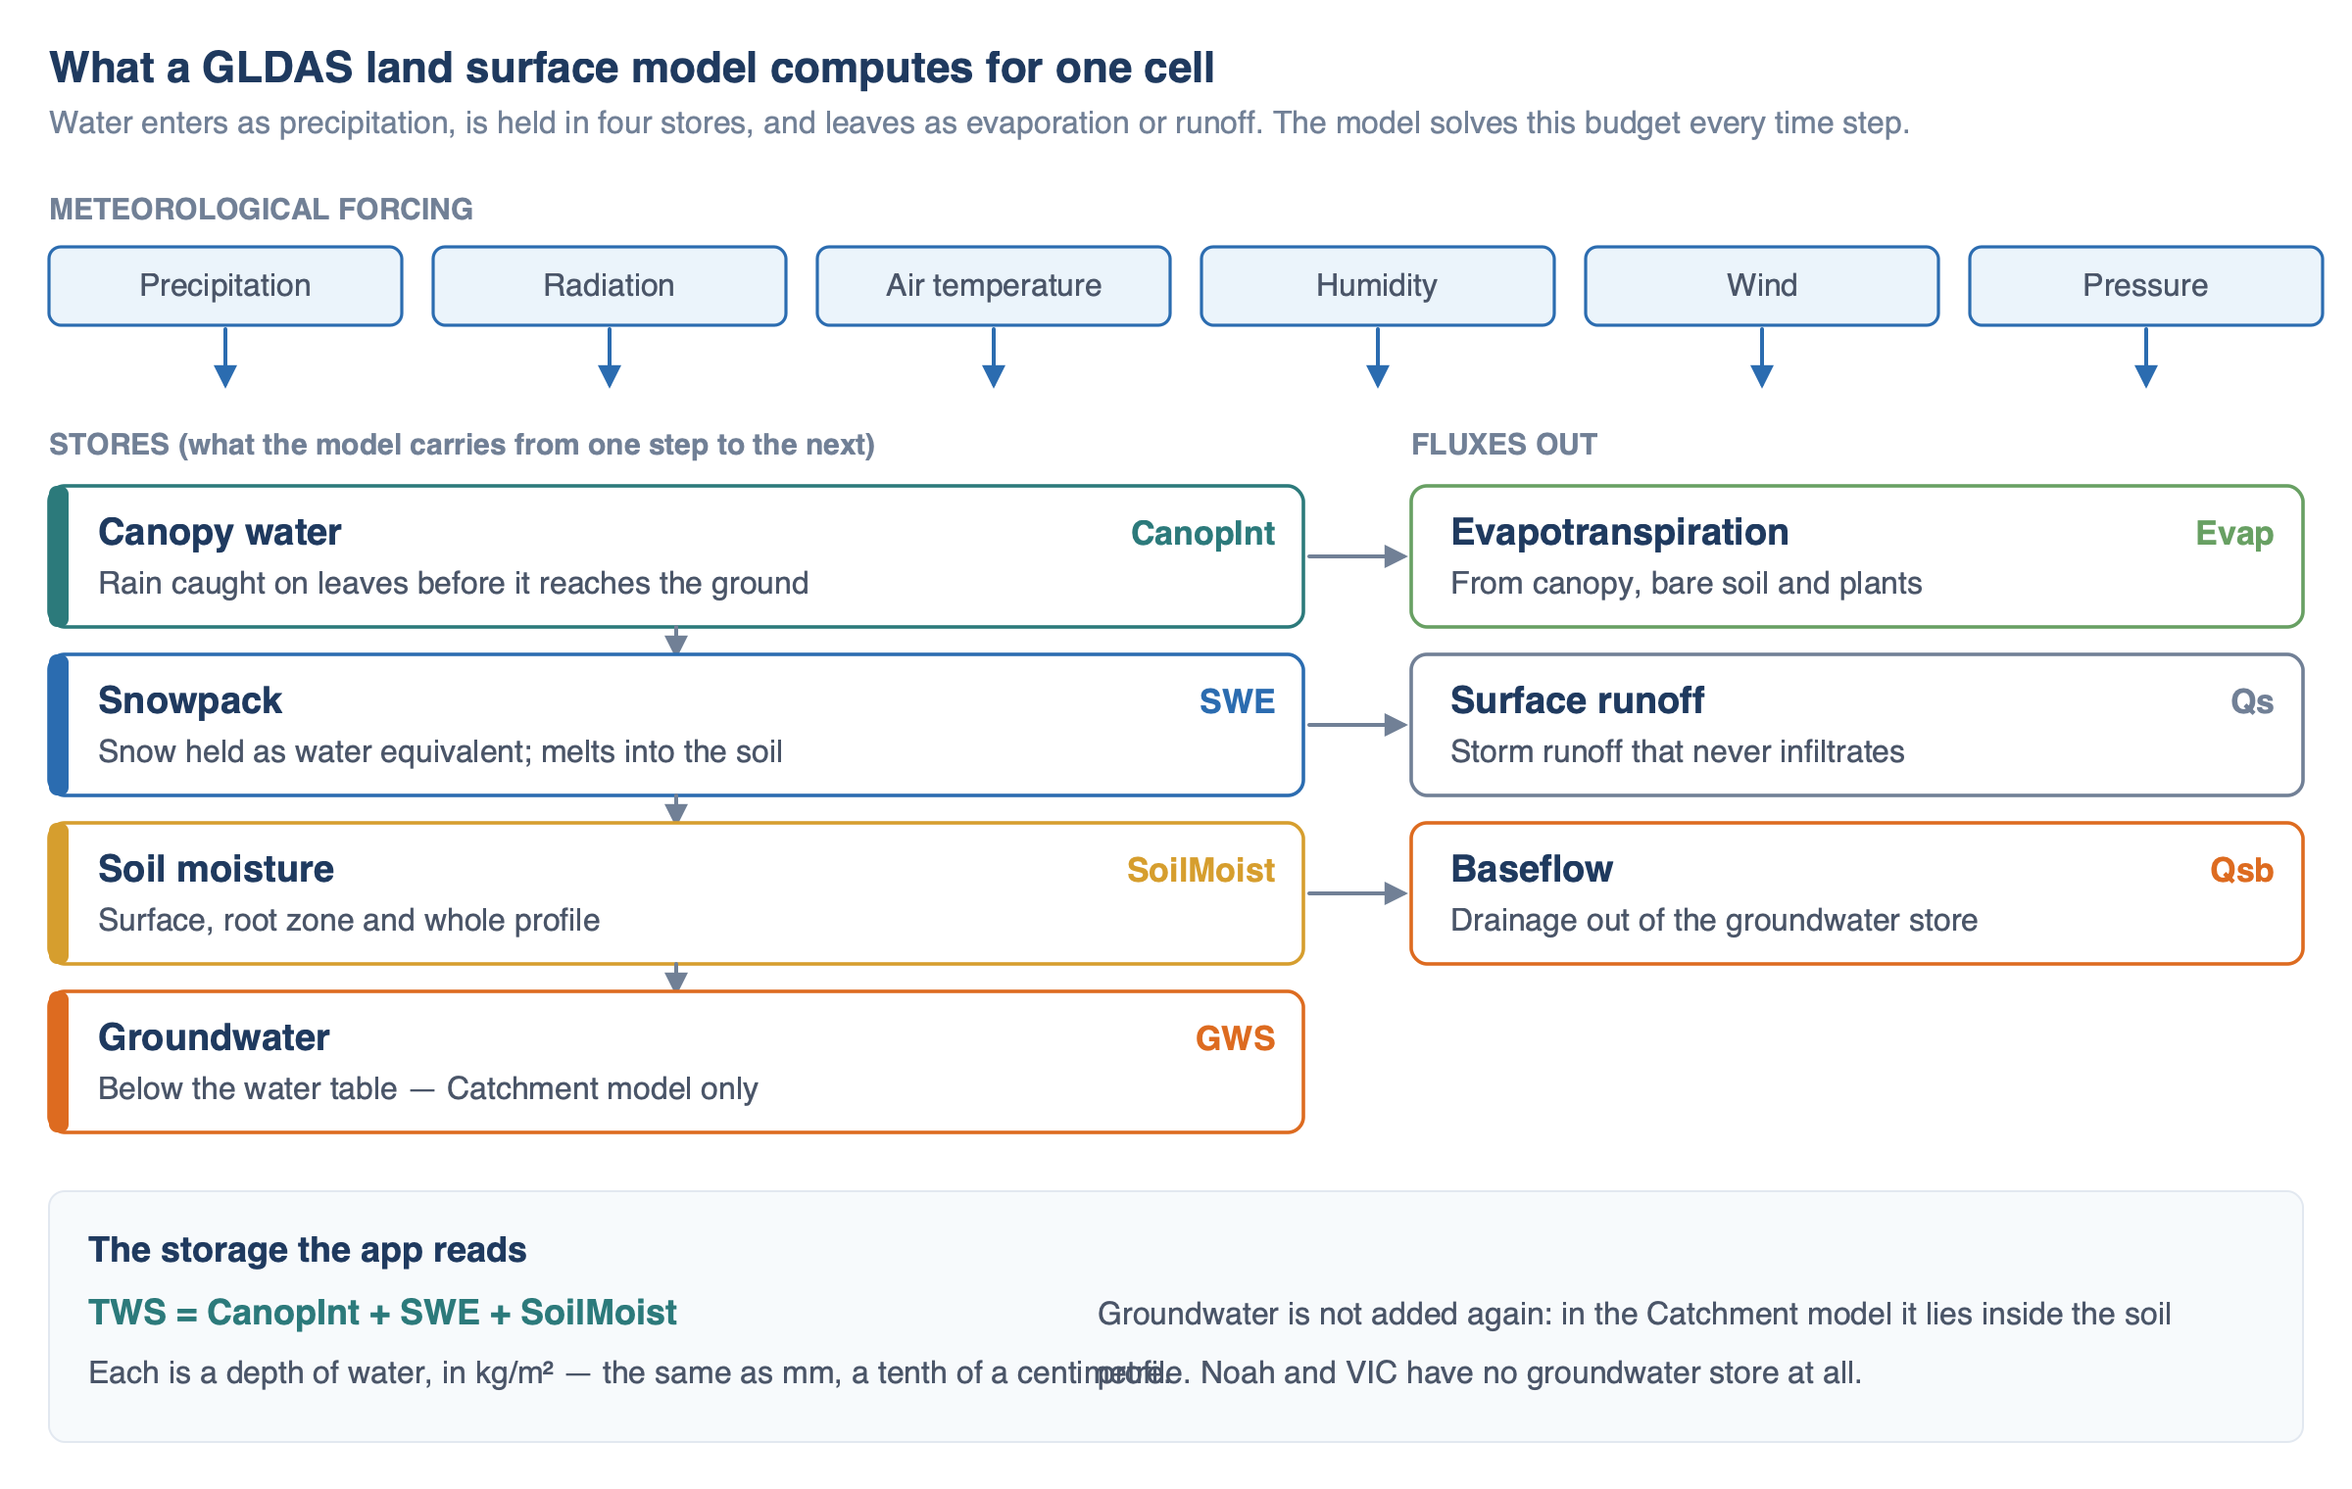
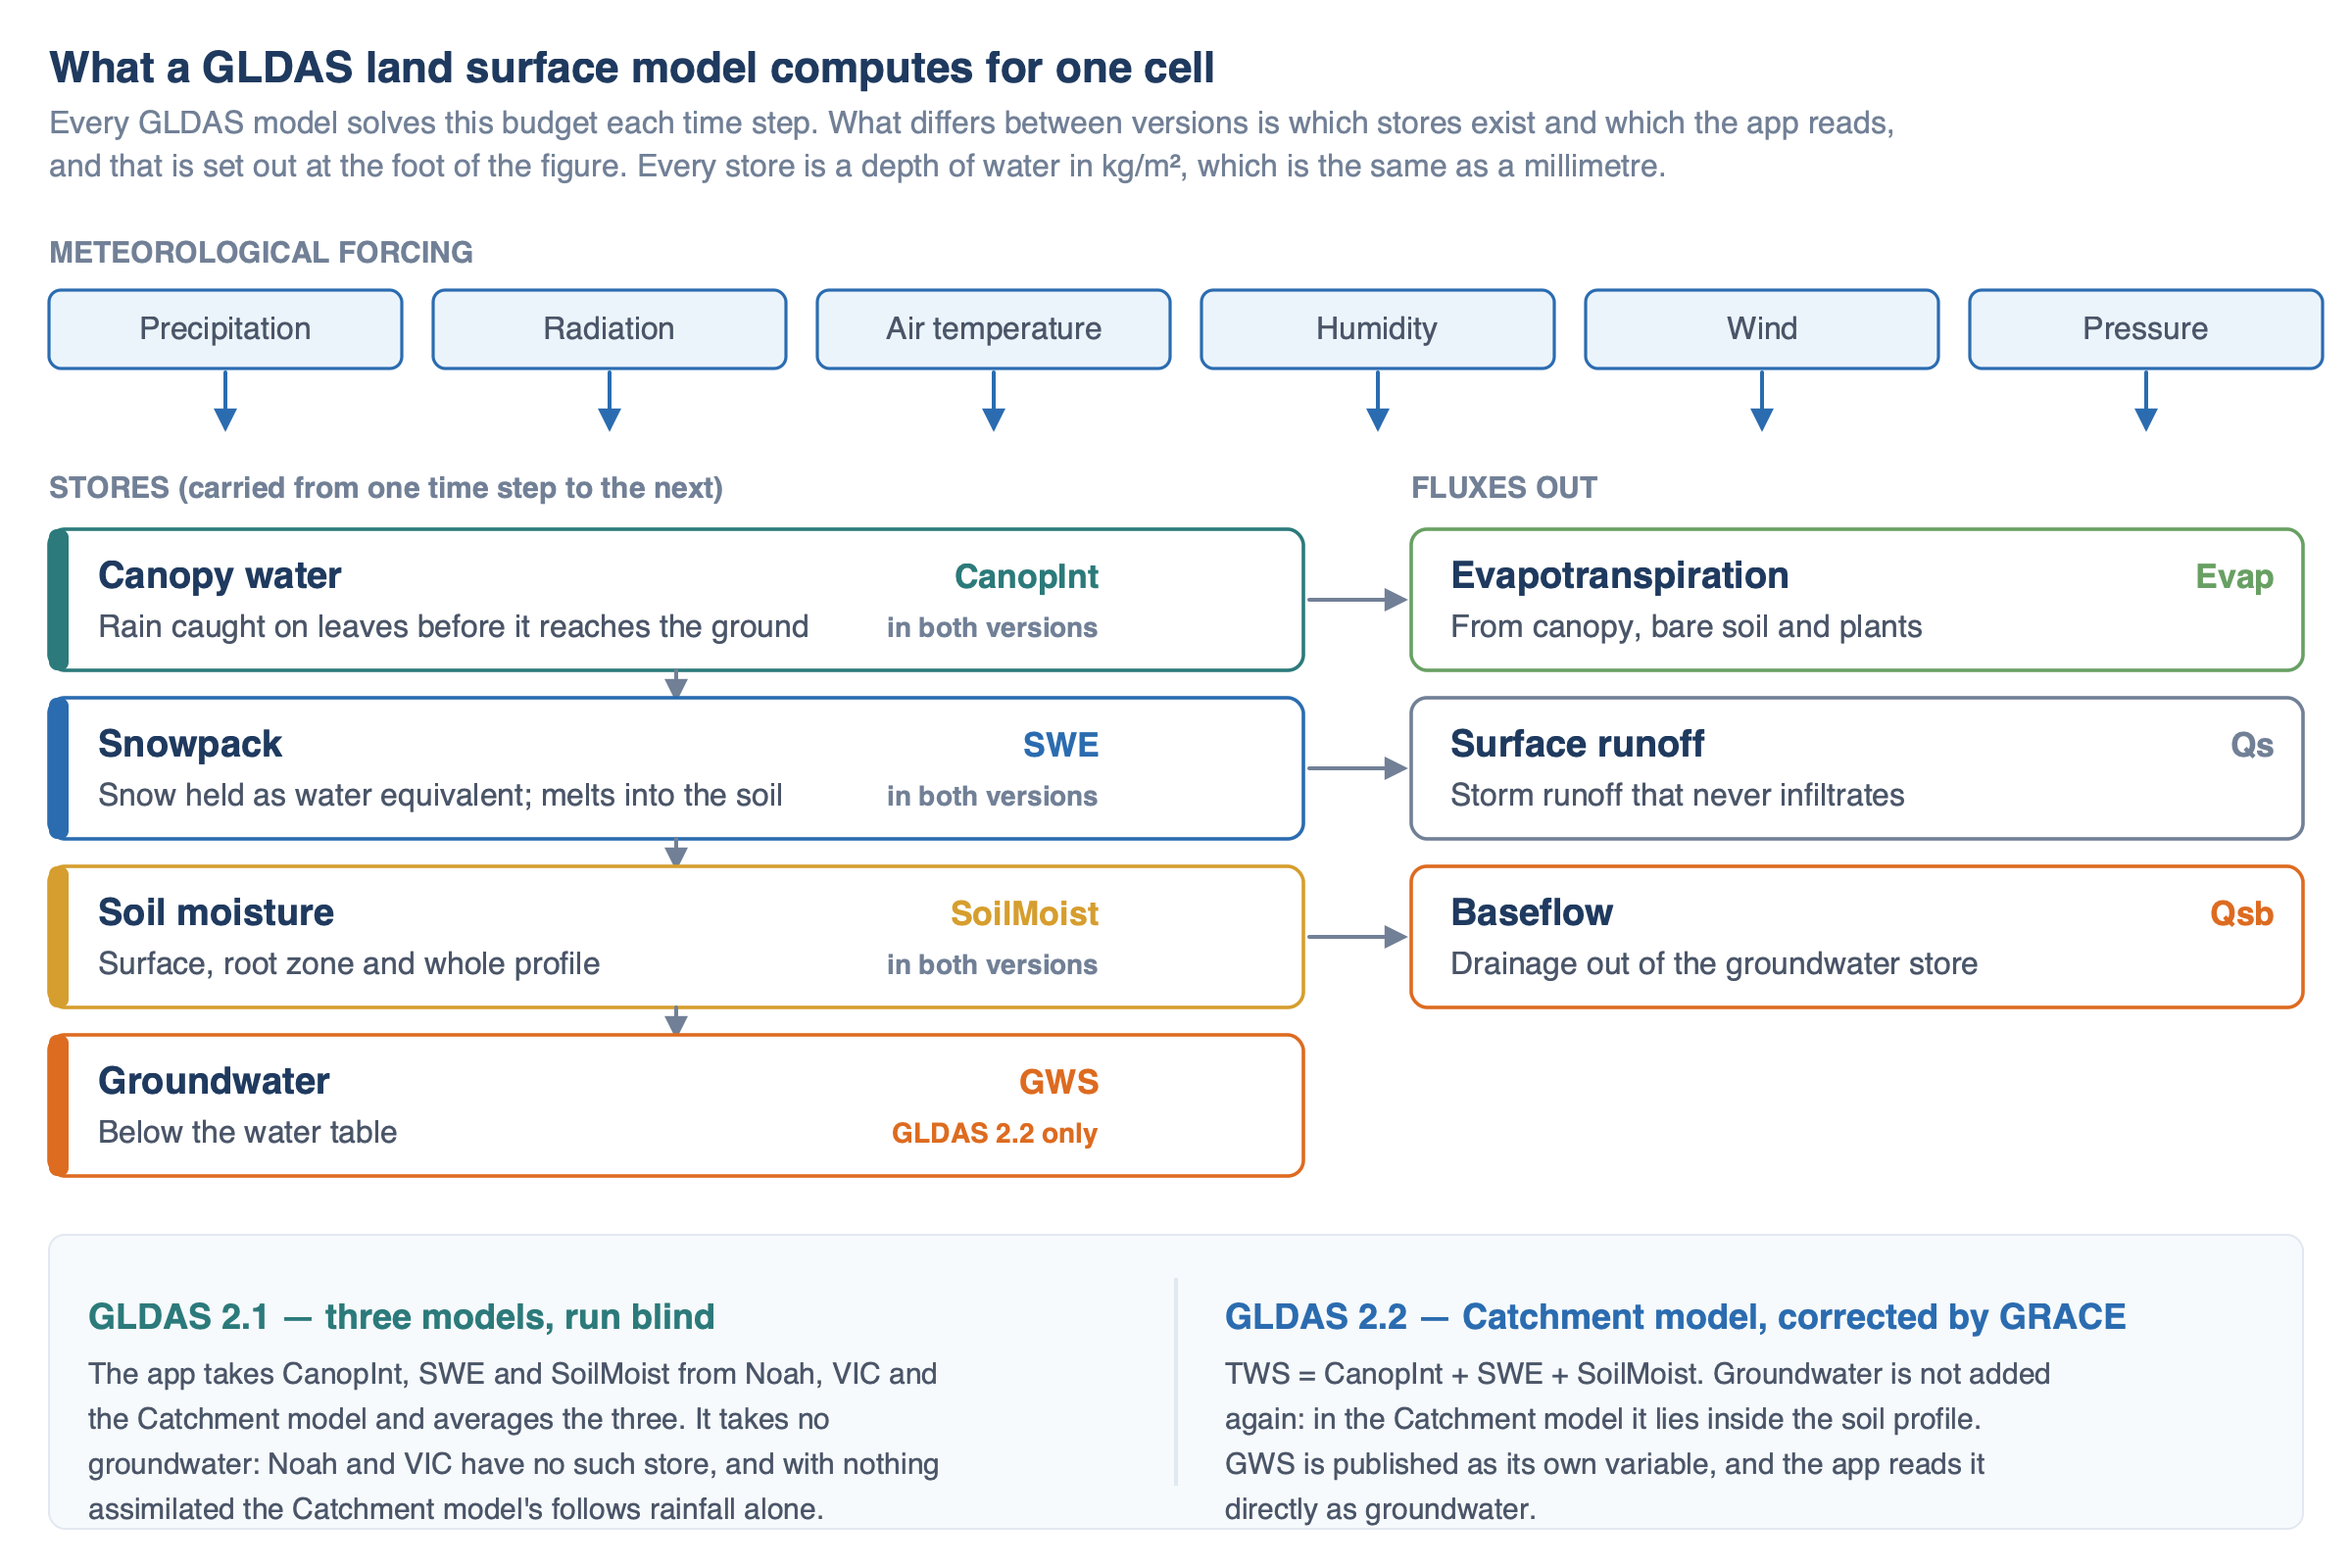
Redraw the water cycle figure so the version split is readable
Its footer overlapped itself at the panel's midpoint, and the figure
gave no way to tell which parts belong to GLDAS 2.1 and which to 2.2 —
the groundwater row said "Catchment model only", which is true but does
not answer the question a reader is actually asking.

Each store now carries a tag saying whether both versions have it, and
the footer is two labelled columns with a rule between them: what the
app takes from the 2.1 ensemble on the left, how 2.2 closes its budget
and publishes groundwater on the right.

Claude-Session: https://claude.ai/code/session_01Wxw5z6EJHSrer8Y72dcUYt

Changed region(s): [[0.0, 0.0309, 1.0, 0.773], [0.0312, 0.8349, 0.9375, 0.9895], [0.5625, 0.5875, 0.5938, 0.6184]]

diff --git a/tools/make_gldas_figures.py b/tools/make_gldas_figures.py
@@ -77,57 +77,73 @@ def svg(name, title, width, height, body):
 
 # ---------------------------------------------------------------- water cycle
 def water_cycle():
-    W, H = 1200, 760
+    W, H = 1200, 800
     b = [text(25, 42, "What a GLDAS land surface model computes for one cell", 22, "bold", "start", NAVY),
-         text(25, 68, "Water enters as precipitation, is held in four stores, and leaves as evaporation or runoff. "
-                      "The model solves this budget every time step.", 16, "normal", "start", GRAY)]
+         text(25, 68, "Every GLDAS model solves this budget each time step. What differs between versions is which stores "
+                      "exist and which the app reads,", 16, "normal", "start", GRAY),
+         text(25, 90, "and that is set out at the foot of the figure. Every store is a depth of water in kg/m², "
+                      "which is the same as a millimetre.", 16, "normal", "start", GRAY)]
 
     # Forcing across the top.
-    b.append(text(25, 112, "METEOROLOGICAL FORCING", 15, "bold", "start", GRAY))
+    b.append(text(25, 134, "METEOROLOGICAL FORCING", 15, "bold", "start", GRAY))
     forcing = ["Precipitation", "Radiation", "Air temperature", "Humidity", "Wind", "Pressure"]
     for i, f in enumerate(forcing):
-        b.append(chip(25 + i * 196, 126, 180, 40, f, BLUE, "#ebf4fb"))
+        b.append(chip(25 + i * 196, 148, 180, 40, f, BLUE, "#ebf4fb"))
     for i in range(6):
-        b.append(arrow(115 + i * 196, 168, 115 + i * 196, 196, "blue", BLUE, 2.0))
+        b.append(arrow(115 + i * 196, 190, 115 + i * 196, 218, "blue", BLUE, 2.0))
 
     # The column of stores.
-    b.append(text(25, 232, "STORES  (what the model carries from one step to the next)", 15, "bold", "start", GRAY))
+    b.append(text(25, 254, "STORES  (carried from one time step to the next)", 15, "bold", "start", GRAY))
     stores = [
-        (TEAL,  "Canopy water", "CanopInt", "Rain caught on leaves before it reaches the ground"),
-        (BLUE,  "Snowpack", "SWE", "Snow held as water equivalent; melts into the soil"),
-        (GOLD,  "Soil moisture", "SoilMoist", "Surface, root zone and whole profile"),
-        (ORANGE, "Groundwater", "GWS", "Below the water table — Catchment model only"),
+        (TEAL,  "Canopy water", "CanopInt", "Rain caught on leaves before it reaches the ground", "both"),
+        (BLUE,  "Snowpack", "SWE", "Snow held as water equivalent; melts into the soil", "both"),
+        (GOLD,  "Soil moisture", "SoilMoist", "Surface, root zone and whole profile", "both"),
+        (ORANGE, "Groundwater", "GWS", "Below the water table", "2.2 only"),
     ]
-    for i, (c, label, var, note) in enumerate(stores):
-        y = 248 + i * 86
+    for i, (c, label, var, note, which) in enumerate(stores):
+        y = 270 + i * 86
         b.append(f'<rect x="25" y="{y}" width="640" height="72" rx="8" fill="white" stroke="{c}" stroke-width="1.8"/>')
         b.append(f'<rect x="25" y="{y}" width="10" height="72" rx="4" fill="{c}"/>')
         b.append(text(50, y + 30, label, 19, "bold", "start", NAVY))
         b.append(text(50, y + 55, note, 16, "normal", "start", DARK))
-        b.append(text(650, y + 30, var, 17, "bold", "end", c))
+        b.append(text(560, y + 30, var, 17, "bold", "end", c))
+        tag = "in both versions" if which == "both" else "GLDAS 2.2 only"
+        tagc = GRAY if which == "both" else ORANGE
+        b.append(text(560, y + 55, tag, 14, "bold", "end", tagc))
         if i < 3:
             b.append(arrow(345, y + 72, 345, y + 86, "gray", GRAY, 2.0))
 
     # Fluxes out, to the right.
-    b.append(text(720, 232, "FLUXES OUT", 15, "bold", "start", GRAY))
+    b.append(text(720, 254, "FLUXES OUT", 15, "bold", "start", GRAY))
     fluxes = [(GREEN, "Evapotranspiration", "Evap", "From canopy, bare soil and plants"),
               (GRAY, "Surface runoff", "Qs", "Storm runoff that never infiltrates"),
               (ORANGE, "Baseflow", "Qsb", "Drainage out of the groundwater store")]
     for i, (c, label, var, note) in enumerate(fluxes):
-        y = 248 + i * 86
+        y = 270 + i * 86
         b.append(f'<rect x="720" y="{y}" width="455" height="72" rx="8" fill="white" stroke="{c}" stroke-width="1.8"/>')
         b.append(text(740, y + 30, label, 19, "bold", "start", NAVY))
         b.append(text(740, y + 55, note, 16, "normal", "start", DARK))
         b.append(text(1160, y + 30, var, 17, "bold", "end", c))
         b.append(arrow(668, y + 36, 716, y + 36, "gray", GRAY, 2.0))
 
-    # The budget, and what the app takes from it.
-    b.append(panel(25, 608, 1150, 128))
-    b.append(text(45, 644, "The storage the app reads", 18, "bold", "start", NAVY))
-    b.append(text(45, 676, "TWS  =  CanopInt + SWE + SoilMoist", 18, "bold", "start", TEAL))
-    b.append(text(45, 706, "Each is a depth of water, in kg/m² — the same as mm, a tenth of a centimetre.", 16))
-    b.append(text(560, 676, "Groundwater is not added again: in the Catchment model it lies inside the soil", 16))
-    b.append(text(560, 706, "profile. Noah and VIC have no groundwater store at all.", 16))
+    # What each version gives the app. Two columns, with a rule between them so
+    # a line from one cannot be read as part of the other.
+    b.append(panel(25, 630, 1150, 150))
+    b.append(f'<line x1="600" y1="652" x2="600" y2="758" stroke="{LIGHT}" stroke-width="2"/>')
+    b.append(text(45, 678, "GLDAS 2.1  —  three models, run blind", 18, "bold", "start", TEAL))
+    for i, line in enumerate([
+            "The app takes CanopInt, SWE and SoilMoist from Noah, VIC and",
+            "the Catchment model and averages the three. It takes no",
+            "groundwater: Noah and VIC have no such store, and with nothing",
+            "assimilated the Catchment model's follows rainfall alone."]):
+        b.append(text(45, 706 + i * 23, line, 15))
+    b.append(text(625, 678, "GLDAS 2.2  —  Catchment model, corrected by GRACE", 18, "bold", "start", BLUE))
+    for i, line in enumerate([
+            "TWS = CanopInt + SWE + SoilMoist. Groundwater is not added",
+            "again: in the Catchment model it lies inside the soil profile.",
+            "GWS is published as its own variable, and the app reads it",
+            "directly as groundwater."]):
+        b.append(text(625, 706 + i * 23, line, 15))
     svg("gldas-water-cycle", "What a GLDAS land surface model computes", W, H, "\n".join(b))
 
 

diff --git a/docs/grace/gldas/land-surface-models.en.md b/docs/grace/gldas/land-surface-models.en.md
@@ -29,16 +29,20 @@ is the one product in the family that assimilates data.
 
 ## What a land surface model computes
 
-![The stores and fluxes a GLDAS land surface model carries for each grid cell](../../static/images/grace/gldas-water-cycle.png)
+The budget below is the same in every GLDAS version. What changes between them is which stores exist and which ones the app takes, and the
+foot of the figure gives that for each.
+
+![The stores and fluxes a GLDAS land surface model carries for each grid cell, and what each GLDAS version contributes to the app](../../static/images/grace/gldas-water-cycle.png)
 
 For each cell and each time step, the model takes the weather above the surface and solves a water and energy budget below it. Rain and snow
 arrive. Some rain is caught on leaves and evaporates straight back; snow accumulates and later melts; what reaches the ground infiltrates, moves
 down through the soil, and leaves again as evaporation, transpiration, surface runoff or drainage. Whatever has not left by the end of the step
 is storage, and it is carried into the next step.
 
-The four stores are what the app is built on: canopy water, snow water equivalent, soil moisture and — in one model — groundwater. Each is
-reported as a depth of liquid water in kg/m², which is the same as a millimetre, or a tenth of a centimetre. The app converts all of them to
-centimetres so they can be added to and subtracted from GRACE.
+The four stores are what the app is built on: canopy water, snow water equivalent, soil moisture, and groundwater. The first three exist in
+every GLDAS model and both of the app's datasets use them. Groundwater exists only in the Catchment model, which is why it reaches the app
+through GLDAS 2.2 alone. Each store is reported as a depth of liquid water in kg/m², which is the same as a millimetre, or a tenth of a
+centimetre; the app converts all of them to centimetres so they can be added to and subtracted from GRACE.
 
 Three things these models leave out, and all three end up in groundwater in the app:
 
